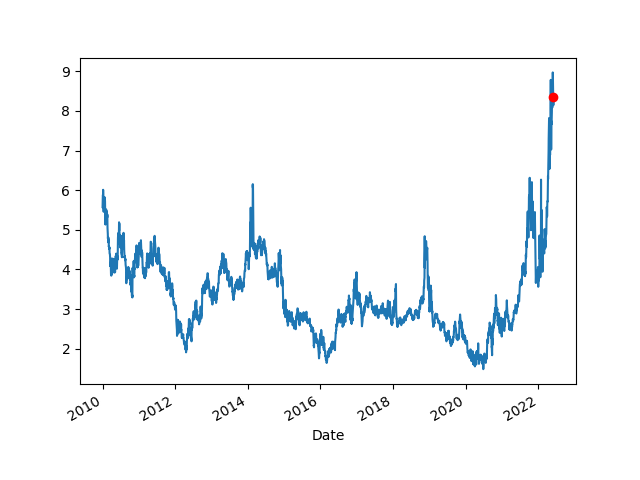
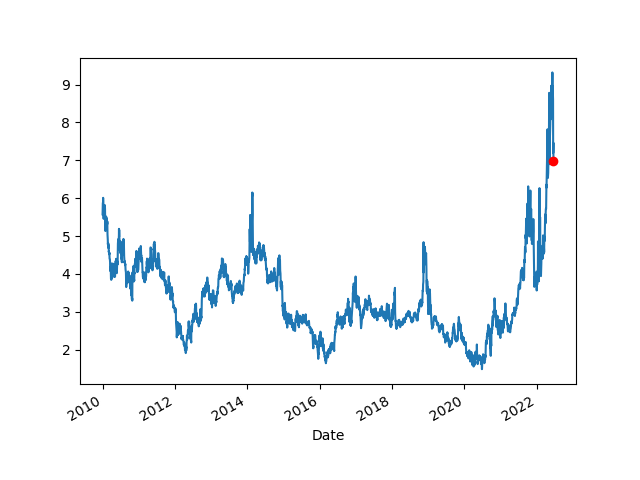
--

diff --git a/en/2019/05/energstats.md b/en/2019/05/energstats.md
@@ -70,9 +70,9 @@ plt.savefig('opec.png')
 Date
 2022-02-01    28.575000
 2022-03-01    28.215000
-2022-04-01    28.490000
-2022-05-01    28.932083
-2022-06-01    29.076941
+2022-04-01    28.590000
+2022-05-01    28.294654
+2022-06-01    28.786941
 Name: 1, dtype: float64
 ```
 
@@ -102,54 +102,17 @@ plt.savefig('natgas.png')
 
 ```text
 Date
-2022-05-23    8.744
-2022-05-24    8.796
-2022-05-25    8.971
-2022-05-26    8.908
-2022-05-27    8.727
-2022-05-31    8.145
-2022-06-01    8.346
+2022-06-09    8.963
+2022-06-10    8.850
+2022-06-13    8.609
+2022-06-14    7.189
+2022-06-15    7.420
+2022-06-16    7.464
+2022-06-17    6.988
 Name: Adj Close, dtype: float64
 ```
 
 ![](natgas.png)
-
-<a name="coal"></a>
-
-Coal Price
-
-```python
-import pandas as pd, datetime, time as timelib
-import urllib.request as urllib2, io
-end = datetime.datetime.now()
-start=datetime.datetime(2010, 1, 1)
-start = int(timelib.mktime(start.timetuple()))
-end = int(timelib.mktime(end.timetuple()))
-base_fin_url = "https://query1.finance.yahoo.com/v7/finance/download"
-url = base_fin_url + "/MTF=F?period1=" + str(start) + "&period2=" + str(end) + "&interval=1d&events=history&includeAdjustedClose=true"
-r = urllib2.urlopen(url).read()
-file = io.BytesIO(r)
-df = pd.read_csv(file,index_col='Date',parse_dates=True)['Adj Close']
-df = df.interpolate()
-df.plot()
-plt.plot(df.tail(1).index, df.tail(1),'ro')
-print (df.tail(7))
-plt.savefig('coal.png')
-```
-
-```text
-Date
-2022-02-18    185.00
-2022-02-22    189.00
-2022-02-23    190.75
-2022-02-24    192.00
-2022-02-25    194.50
-2022-02-28    194.50
-2022-03-01    194.50
-Name: Adj Close, dtype: float64
-```
-
-![](coal.png)
 
 <a name='engconsumption'/>
 
